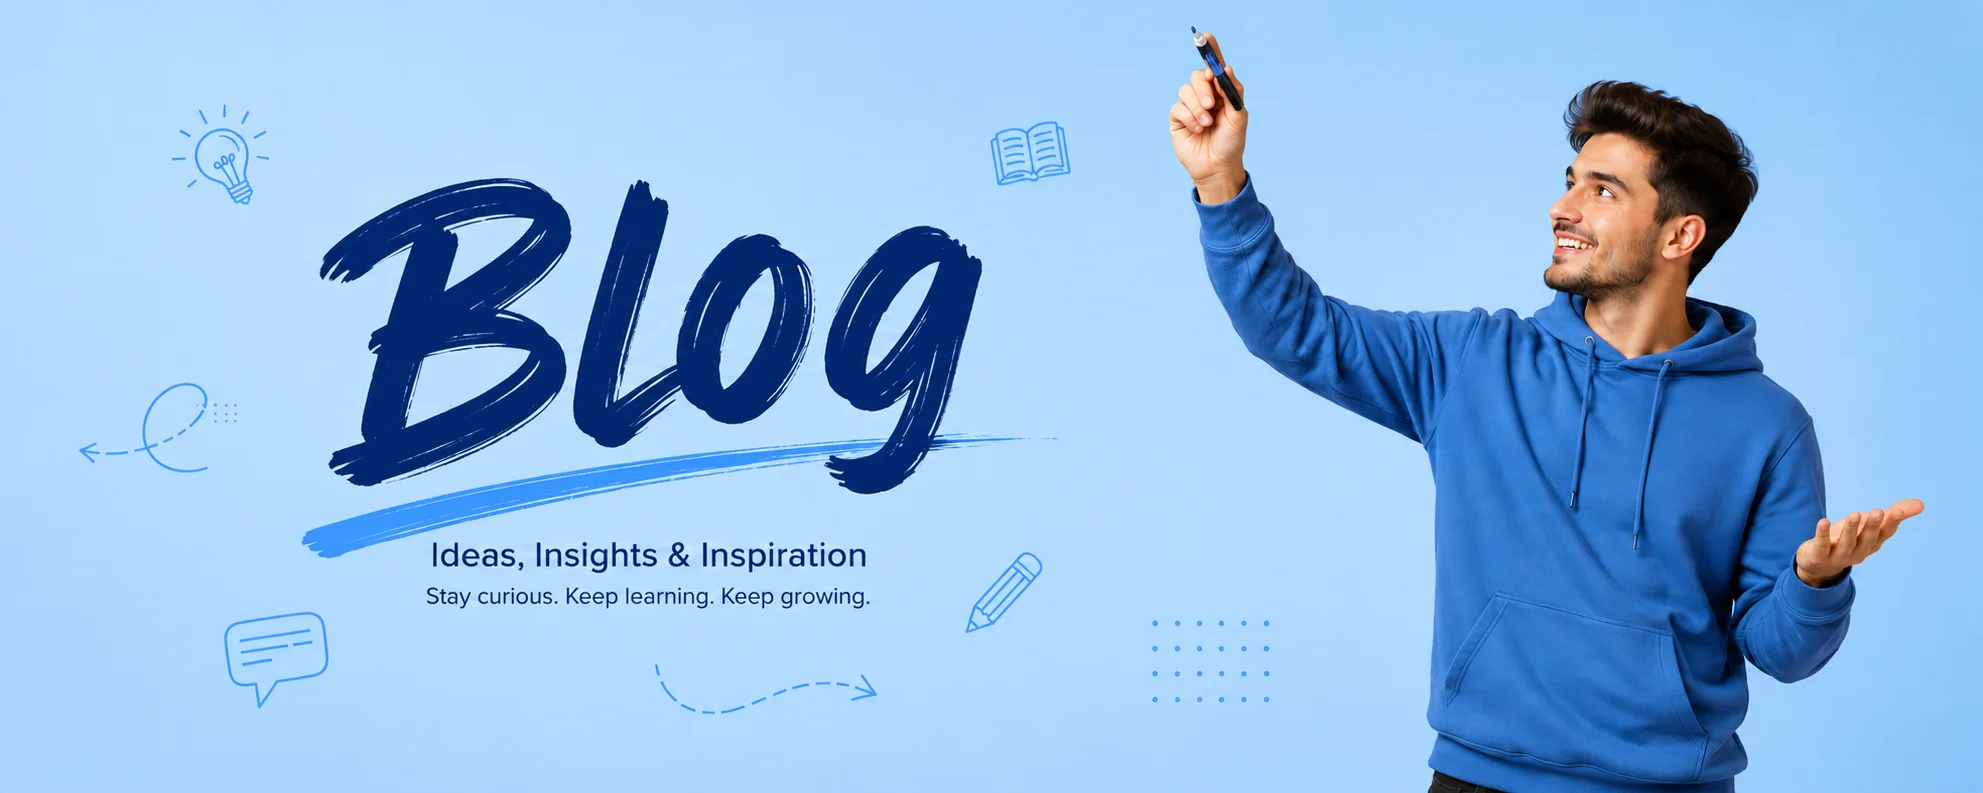
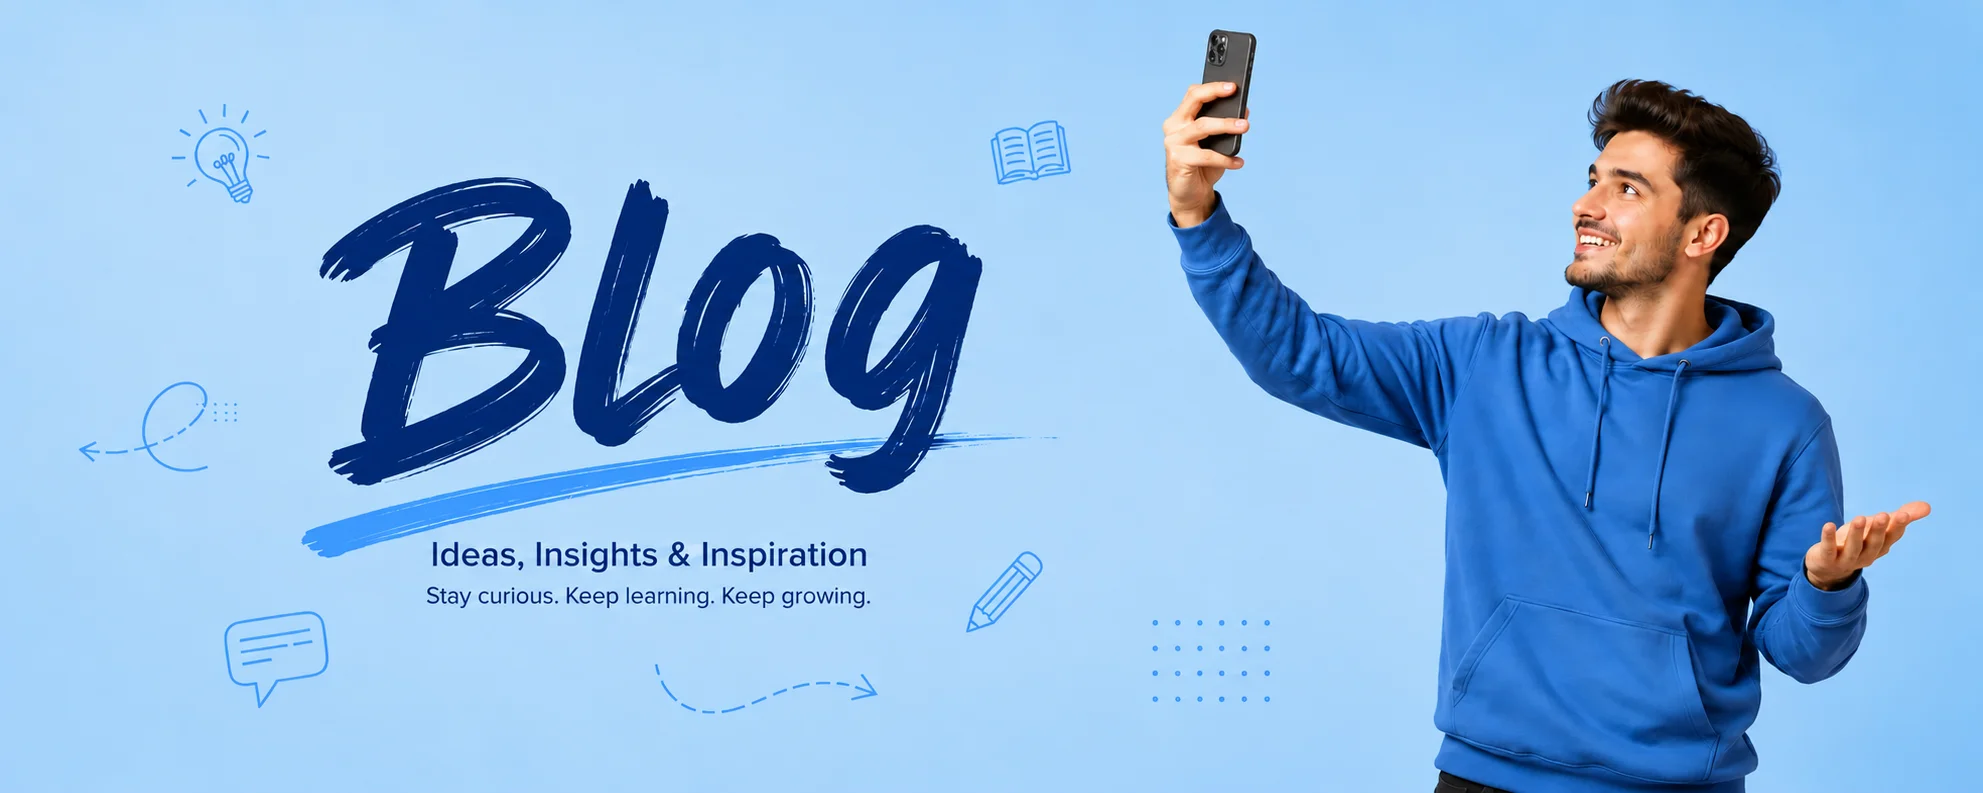
blog page

diff --git a/frontend/app/blog/page.tsx b/frontend/app/blog/page.tsx
@@ -9,8 +9,6 @@ import { blogCategories } from "@/lib/blogCategories";
 import { assetPath } from "@/lib/paths";
 import { FaEye, FaLaptop, FaTabletAlt, FaMobileAlt } from "react-icons/fa";
 import { FaBars, FaChevronDown, FaRightFromBracket, FaUser, FaXmark } from "react-icons/fa6";
-import { scrollBlockpagesCanvasToSection } from "@/lib/blockpagesTemplateSections";
-import { resolveBlockpagesDeviceMode } from "@/lib/blockpagesEditorInteraction";
 import { useBlockpagesEditor } from "@/lib/blockpagesEditorContext";
 import { isBlockpagesTextEditingActive } from "@/lib/blockpagesDropdownStyles";
 
@@ -19,7 +17,9 @@ const START_BLOGGING_HREF = "/blog/manage/create";
 
 
 function scrollToBlogSection(sectionId: string) {
-  scrollBlockpagesCanvasToSection(sectionId);
+  const target = document.getElementById(sectionId);
+  if (!target) return;
+  target.scrollIntoView({ behavior: "smooth", block: "start" });
 }
 
 function scrollToBlogCategory(categoryId: string) {
@@ -349,7 +349,6 @@ function BlogHeader({
 
           <button
             type="button"
-            data-blockpages-interactive="true"
             className={`inline-flex items-center justify-center shrink-0 w-[2.5rem] h-[2.5rem] p-0 border rounded-[0.4rem] text-[var(--blog-white)] cursor-pointer transition-[background,border-color,color] duration-150 ease hover:bg-[rgba(255,255,255,0.22)] hover:border-white focus-visible:bg-[rgba(255,255,255,0.22)] focus-visible:border-white focus-visible:outline-none @[760px]:hidden @max-[340px]:w-[2.2rem] @max-[340px]:h-[2.2rem] ${mobileOpen ? "bg-[rgba(43,127,255,0.35)] border-[rgba(255,255,255,0.9)]" : "bg-[rgba(255,255,255,0.12)] border-[rgba(255,255,255,0.65)]"}`}
             aria-expanded={mobileOpen}
             aria-controls="blog-mobile-nav"
@@ -485,7 +484,7 @@ const blogImages = {
   buildDesk: "/blog/build-desk.webp",
   teamWork: "/blog/team-work.webp",
   analytics: "/blog/analytics-dashboard.webp",
-  faq: "/blog/faq-help.svg",
+  faq: "/blog/FAQ.webp",
 };
 
 const templates = [
@@ -682,82 +681,40 @@ export default function BlogPage() {
               {/* Top — continuous hero + image + templates (matches screenshot flow) */}
               <div
                 id="blog-home"
-                className="blog-top-zone blog-anchor-section w-full min-w-0 pt-0"
-                style={{
-                  background: 'linear-gradient(180deg, var(--blog-blue-bg) 0%, var(--blog-blue-bg) var(--blog-top-split, 38%), var(--blog-pink-bg) var(--blog-top-split, 38%), var(--blog-pink-bg) 100%)'
-                }}
+                className="blog-top-zone blog-anchor-section w-full min-w-0 pt-0 bg-[var(--blog-pink-bg)]"
               >
-                <section className="bg-transparent pt-[clamp(2rem,5cqw,3.5rem)] pb-0 w-full max-w-full min-w-0 px-[var(--blog-safe-inline)] box-border">
+                <section className="bg-transparent pt-[clamp(3rem,6cqw,4rem)] pb-[clamp(3rem,6cqw,4rem)] w-full max-w-full min-w-0 px-[var(--blog-safe-inline)] box-border">
                   <div className="w-full max-w-[var(--blog-container-wide)] mx-auto min-w-0">
-                    <div className="text-center pb-[clamp(1.5rem,4cqw,2.25rem)] max-w-[46rem] mx-auto @max-[639px]:px-0">
-                      <h1 className="text-[clamp(1.5rem,4.8cqw,3.25rem)] font-extrabold leading-[1.15] tracking-[-0.02em] text-[var(--blog-navy)] [text-wrap:balance] flex flex-wrap items-center justify-center gap-[0.35rem_0.5rem] m-0 text-center max-w-full w-full @min-[1280px]:text-[3.25rem] break-words [overflow-wrap:anywhere]">
-                        Create a Blog Worth{" "}
-                        <span className="inline-flex flex-wrap items-center justify-center gap-[0.35rem] whitespace-normal max-w-full">
-                          Sharing
-                          <span className="inline-flex shrink-0 items-center justify-center text-[#2b7fff] w-[clamp(2.75rem,6.5cqw,3.5rem)] h-[clamp(2rem,5cqw,2.5rem)] m-0 leading-none align-middle" aria-hidden>
-                            <BlogHeroTrendArrow />
-                          </span>
-                        </span>
+                    <div className="text-center max-w-[64rem] mx-auto @max-[639px]:px-0 flex flex-col items-center">
+                      <h1 className="text-[clamp(1.5rem,4.8cqw,3.25rem)] font-extrabold leading-[1.15] tracking-[-0.02em] text-[var(--blog-navy)] m-0 text-center max-w-full w-full @min-[1280px]:text-[3.25rem] break-words [overflow-wrap:anywhere]">
+                        Discover Stories That Spark Curiosity
                       </h1>
-                      <p className="mt-[clamp(0.85rem,2cqw,1.25rem)] max-w-[36rem] mx-auto text-[clamp(0.9rem,1.9cqw,1.0625rem)] leading-[1.65] text-[var(--blog-navy)] break-words [overflow-wrap:anywhere]">
-                        Get a full suite of intuitive design features and powerful marketing
-                        tools to create a unique blog that leaves a lasting impression.
+                      <p className="mt-[clamp(0.85rem,2cqw,1.25rem)] max-w-[48rem] mx-auto text-[clamp(0.9rem,1.9cqw,1.0625rem)] leading-[1.65] text-[var(--blog-navy)] text-center break-words [overflow-wrap:anywhere]">
+                        Explore expert insights, practical guides, inspiring stories, and the latest trends across<br className="hidden @min-[640px]:block" />
+                        technology, design, business, travel, and lifestyle.
                       </p>
-                      <Link href={START_BLOGGING_HREF} className="inline-flex items-center justify-center mt-[clamp(1rem,2.5cqw,1.5rem)] min-h-[2.75rem] py-[0.55rem] px-[1.75rem] rounded-full border border-[var(--blog-navy)] bg-[var(--blog-white)] text-[var(--blog-navy)] text-[clamp(0.85rem,1.8cqw,0.95rem)] font-semibold no-underline cursor-pointer transition-[background-color,color,border-color,box-shadow,transform] duration-200 ease max-w-full text-center hover:bg-[var(--blog-navy)] hover:text-[var(--blog-white)] hover:border-[var(--blog-navy)] hover:shadow-[0_6px_18px_rgba(0,31,63,0.2)] hover:-translate-y-[2px] active:translate-y-0 focus-visible:outline-none focus-visible:ring-2 focus-visible:ring-blue-500 focus-visible:ring-offset-2">
-                        Start Blogging
-                      </Link>
                     </div>
                   </div>
                 </section>
 
-                <div className="bg-transparent p-0 relative z-10 w-full max-w-full min-w-0 px-[var(--blog-safe-inline)] box-border">
-                  <div className="w-full max-w-[var(--blog-container-wide)] mx-auto min-w-0">
-                    <div className="w-full max-w-[62rem] mx-auto rounded-[0.85rem] overflow-hidden min-w-0 leading-none shadow-[0_6px_24px_rgba(0,31,63,0.1)] @min-[1024px]:w-[min(88%,58rem)]">
-                      <img
-                        className="block w-full aspect-[16/9] object-cover object-center @min-[640px]:aspect-[2.15/1] @min-[1024px]:aspect-[2.2/1] @min-[1024px]:max-h-[20rem]"
-                        src={assetPath(blogImages.hero)}
-                        alt="Professionals collaborating in a modern office"
-                        loading="eager"
-                        decoding="async"
-                        sizes="(max-width: 640px) 100vw, (max-width: 1024px) 90vw, 58rem"
-                      />
-                    </div>
-                  </div>
+                <div className="w-full min-w-0 leading-none">
+                  <img
+                    className="block w-full h-auto object-cover object-center"
+                    src={assetPath(blogImages.hero)}
+                    alt="Professionals collaborating in a modern office"
+                    loading="eager"
+                    decoding="async"
+                    sizes="100vw"
+                  />
                 </div>
 
-                <section className="bg-transparent pt-[clamp(2rem,5cqw,3rem)] pb-[clamp(2.5rem,6cqw,4rem)] w-full max-w-full min-w-0 px-[var(--blog-safe-inline)] box-border">
-                  <div className="w-full max-w-[var(--blog-container-wide)] mx-auto min-w-0 text-center">
-                    <h2 className="text-[clamp(1.75rem,4.5cqw,2.75rem)] font-extrabold leading-[1.15] tracking-[-0.02em] text-[var(--blog-navy)] [text-wrap:balance] @min-[1280px]:text-[2.75rem] text-[clamp(1.5rem,4cqw,2.35rem)] mt-0 break-words [overflow-wrap:anywhere]">
-                      Blog templates that set you up for success
-                    </h2>
-                    <p className="mt-[1rem] text-[clamp(0.95rem,2cqw,1.125rem)] leading-[1.65] text-[var(--blog-navy)] max-w-[40rem] mx-auto break-words [overflow-wrap:anywhere]">
-                      Choose from 900+ free customizable templates built
-                      <br className="hidden @min-[640px]:block" />
-                      with everything you need.
-                    </p>
-                    <Link href="/landing#templates" className="inline-flex items-center justify-center gap-[0.35rem] mt-[clamp(1rem,2.5cqw,1.5rem)] min-h-[2.75rem] py-[0.6rem] px-[1.5rem] rounded-full border border-[#d1d5db] bg-[var(--blog-white)] text-[var(--blog-navy)] text-[clamp(0.875rem,1.8cqw,1rem)] font-semibold no-underline max-w-full text-center hover:bg-blue-900 hover:text-white hover:shadow-lg hover:scale-105 transition-all duration-300 focus-visible:ring-2 focus-visible:ring-blue-500 focus-visible:outline-none">
-                      Explore Template <span aria-hidden>→</span>
-                    </Link>
-                    <div className="grid grid-cols-1 gap-[clamp(1.5rem,3cqw,2rem)] @max-[639px]:gap-[1.25rem] @min-[640px]:@max-[1023px]:gap-[1.5rem] @min-[1024px]:gap-[2rem] @min-[640px]:grid-cols-2 @min-[1024px]:grid-cols-3 mt-[clamp(2rem,5cqw,3rem)] w-full min-w-0">
-                      {templates.map((item) => (
-                        <article key={item.title} className="min-w-0 text-center">
-                          <div className="rounded-[var(--blog-radius-sm)] overflow-hidden w-full aspect-[4/3]">
-                            <img
-                              className="block w-full h-full object-cover"
-                              src={assetPath(item.image)}
-                              data-blockpages-img-id={`blog-template-${item.title.replace(/\s+/g, '-').toLowerCase()}`}
-                              alt={item.alt}
-                              loading="lazy"
-                              decoding="async"
-                              sizes="(max-width: 640px) 100vw, (max-width: 1024px) 50vw, 400px"
-                            />
-                          </div>
-                          <span className="inline-block mt-[1rem] text-[clamp(0.95rem,2cqw,1.0625rem)] font-semibold text-[var(--blog-navy)] underline [text-underline-offset:4px]">{item.title}</span>
-                        </article>
-                      ))}
-                    </div>
-                  </div>
-                </section>
+                <div className="w-full bg-[#0a192f] py-[1.5rem] flex justify-center">
+                  <Link href={START_BLOGGING_HREF} className="inline-flex items-center justify-center min-h-[2.75rem] py-[0.55rem] px-[2.5rem] rounded-full border border-[var(--blog-white)] bg-transparent text-[var(--blog-white)] text-[clamp(0.85rem,1.8cqw,0.95rem)] font-semibold no-underline cursor-pointer transition-all duration-300 ease-out max-w-full text-center hover:bg-[var(--blog-white)] hover:text-[#0a192f] hover:scale-105 hover:-translate-y-1 hover:shadow-[0_10px_20px_rgba(255,255,255,0.2)] active:scale-95 active:translate-y-0 focus-visible:outline-none focus-visible:ring-2 focus-visible:ring-blue-500 focus-visible:ring-offset-2">
+                    Explore Blog
+                  </Link>
+                </div>
+
+
               </div>
 
               {/* Build your way */}

diff --git a/frontend/lib/blogCategories.ts b/frontend/lib/blogCategories.ts
@@ -5,7 +5,8 @@ export const blogCategories = [
     label: "Personal Blog",
     description:
       "Clean layouts for storytellers, journals, and creative portfolios.",
-    image: "/landing-optimized/blog1.webp",
+    image: "/template-personal.webp",
+ 
   },
   {
     id: "blog-cat-tech",

diff --git a/frontend/app/landing/page.tsx b/frontend/app/landing/page.tsx
@@ -167,7 +167,7 @@ const templates = [
   { title: "Classic Portfolio", category: "portfolio", image: "/landing-optimized/port.webp", alt: "Classic Portfolio template", description: "Perfect for individual creators.", badge: "Free" },
   { title: "Digital Marketing", category: "portfolio", image: "/portfolio03.webp", alt: "Agency Pro template", description: "A polished showcase for design teams.", price: 190, badge: "Premium" },
   { title: "Restaurant", category: "portfolio", image: "/portfolio04.webp", alt: "Minimal Studio template", description: "Clean white-space focused layout.", badge: "Free" },
-  { title: "Blogging Page", category: "blog", image: "/landing-optimized/blog1.webp", alt: "Personal Blog template", description: "Clean layout for storytellers.", badge: "Free" },
+  { title: "Blogging Page", category: "blog", image: "/landing-optimized/template-personal.webp", alt: "Personal Blog template", description: "Clean layout for storytellers.", badge: "Free" },
   { title: "Tech Insights", category: "blog", image: "/landing-optimized/blog2.webp", alt: "Tech Insights template", description: "Professional layout for tech news.", price: 150, badge: "Premium" },
   { title: "Store", category: "ecommerce", image: "/landing-optimized/store11.webp", alt: "Store template", description: "A product-first storefront layout.", price: 290, badge: "Premium" },
   { title: "Fashion", category: "ecommerce", image: "/landing-optimized/fashion06.webp", alt: "Fashion store template", description: "Editorial product grid for apparel.", price: 190, badge: "Premium" },